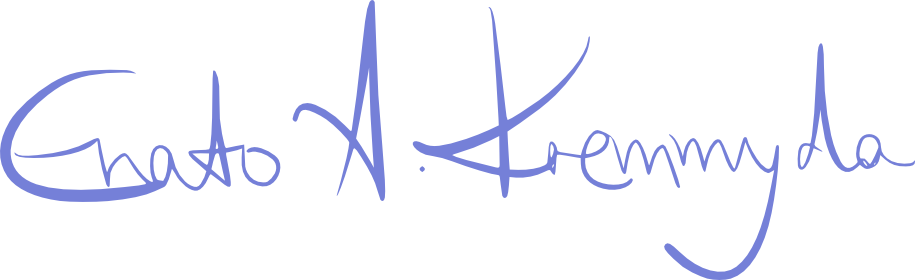
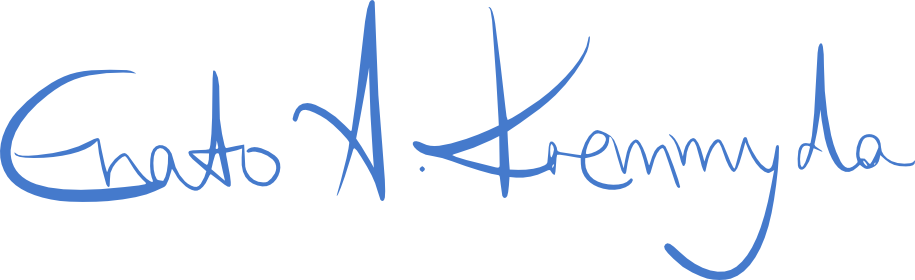
changed color of main page

diff --git a/site/css/main.css b/site/css/main.css
@@ -127,7 +127,7 @@ header div {
 header #title {
     font-size: 120px;
     font-family: serif;
-    color: rgb(117, 128, 216);
+    color: rgb(69, 122, 204);
 }
 
 header #line  {
@@ -141,7 +141,7 @@ header #line  {
 header #subtitle {
     font-size: 20px;
     letter-spacing: 3px;
-    color: rgb(117, 128, 216);
+    color: rgb(69, 122, 204);
     font-family: 'Champagne And Limousines', 'Futura', serif;
     position:relative;
     left: -120px;
@@ -204,7 +204,7 @@ nav p {
     border-bottom: 1px solid black;
     margin-top: 25px;
     margin-bottom: 5px;
-    color: rgb(117, 128, 216);
+    color: rgb(69, 122, 204);
     margin-right: 10px;
     clear: both;
     margin-left: 50px;
@@ -214,7 +214,7 @@ nav p a,
 nav p a:hover,
 nav p a:visited,
 nav p a:active {
-    color: rgb(117, 128, 216);
+    color: rgb(69, 122, 204);
 }
 
 
@@ -270,13 +270,13 @@ section#main p.subtitle {
     font-size: 23px;
     margin-bottom: 1em;
     margin-top: 2em; 
-    color: rgb(117, 128, 216) ;
+    color: rgb(69, 122, 204) ;
 }
 
 section#main a,
 section#main a:active,
 section#main a:hover,
-section#main a:visited { color : rgb(117, 128, 216) ;
+section#main a:visited { color : rgb(69, 122, 204) ;
 			 font-weight: bold; }
     
 
@@ -306,7 +306,7 @@ div.mainpage#bio img {
 
 section#contact {
 
-    background: rgb(117, 128, 216);
+    background: rgb(69, 122, 204);
     color: white;
 
     display: block;
@@ -334,8 +334,8 @@ section#contact.fixed {
     box-shadow: 0px 0px 15px rgba(0,0,0,0.25);
 
 //    background: rgb(246, 248, 252);
-//    border-top: 1px solid rgb(117, 128, 216);
-//    color: rgb(117, 128, 216);
+//    border-top: 1px solid rgb(69, 122, 204);
+//    color: rgb(69, 122, 204);
 
 }
 
@@ -364,8 +364,8 @@ section#contact.fixed a,
 section#contact.fixed a:hover,
 section#contact.fixed a:visited,
 section#contact.fixed a:active {
-//    color: rgb(117, 128, 216);
-//    border-bottom: 1px dotted rgb(117, 128, 216);
+//    color: rgb(69, 122, 204);
+//    border-bottom: 1px dotted rgb(69, 122, 204);
 }
 
 
@@ -374,7 +374,7 @@ section#contact.fixed a:active {
 footer {
     clear: both;
     color: white;
-    background: rgb(117, 128, 216);
+    background: rgb(69, 122, 204);
     font-size: 0.8em;
 
     -moz-box-shadow: 0px 0px 15px rgba(0,0,0,0.3);

diff --git a/index.html b/index.html
@@ -130,7 +130,11 @@
 	<p class="title">Short Bio</p>
 	<p>Originally from Athens (Greece), Erato A. Kremmyda <img src="site/img/smallportrait.png" alt="" /> is a New York based composer primarily devoted to collaborative work.  Currently focusing on theatre, film and documentary, Erato explores collaborations all over the world and loves the challenge of every new project. She is a 2006 Fulbright fellow and a proud member of <span class="caps">ASCAP</span>, the Dramatists Guild of America, the American Composers Forum and Bastard Playground. A graduate of Tisch School of the Arts (scholar), Steinhardt <span class="caps">NYU</span>, Athens University and Athens Conservatory, she has been awarded for her music both in Greece and in the United States.</p>
 <p>[Full resume, references and more work samples available upon request.]</p>
-<p><em>Current/recent collaborations</em>: <strong>Maggie-Kate Coleman, Olympia Dukakis, Sam Pinkleton, Onur Karaoglu, Rob Heller, Dimitris Bogdanos, Robin Sandusky, Ioli Andreadi, Jay Stern, Mason Beggs, Ella Rose Chary, Mark Schneider, Jack O&#8217;Brien, Maria Gabriella Pezzo, Wenwen Ren</strong>.</p>
+<p><em>Current/recent collaborations</em>:<br />
+<strong>Maggie-Kate Coleman, Olympia Dukakis, Sam Pinkleton,<br />
+Onur Karaoglu, Rob Heller, Dimitris Bogdanos, Robin Sandusky,<br />
+Ioli Andreadi, Jay Stern, Mason Beggs, Ella Rose Chary,<br />
+Mark Schneider, Jack O&#8217;Brien, Maria Gabriella Pezzo, Wenwen Ren</strong>.</p>
       </div>
       
       <div class="mainpage" id="photos">
